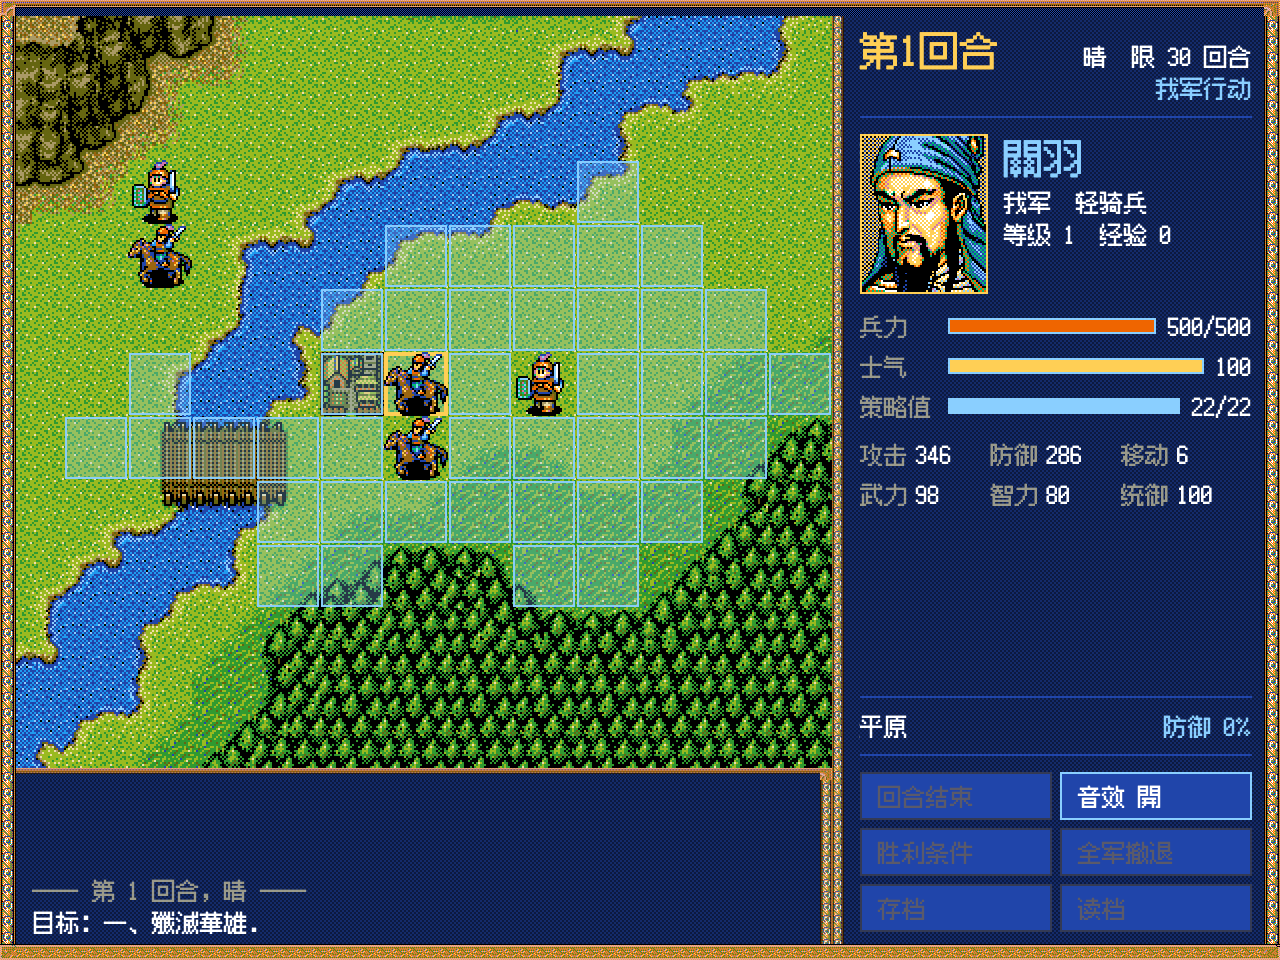
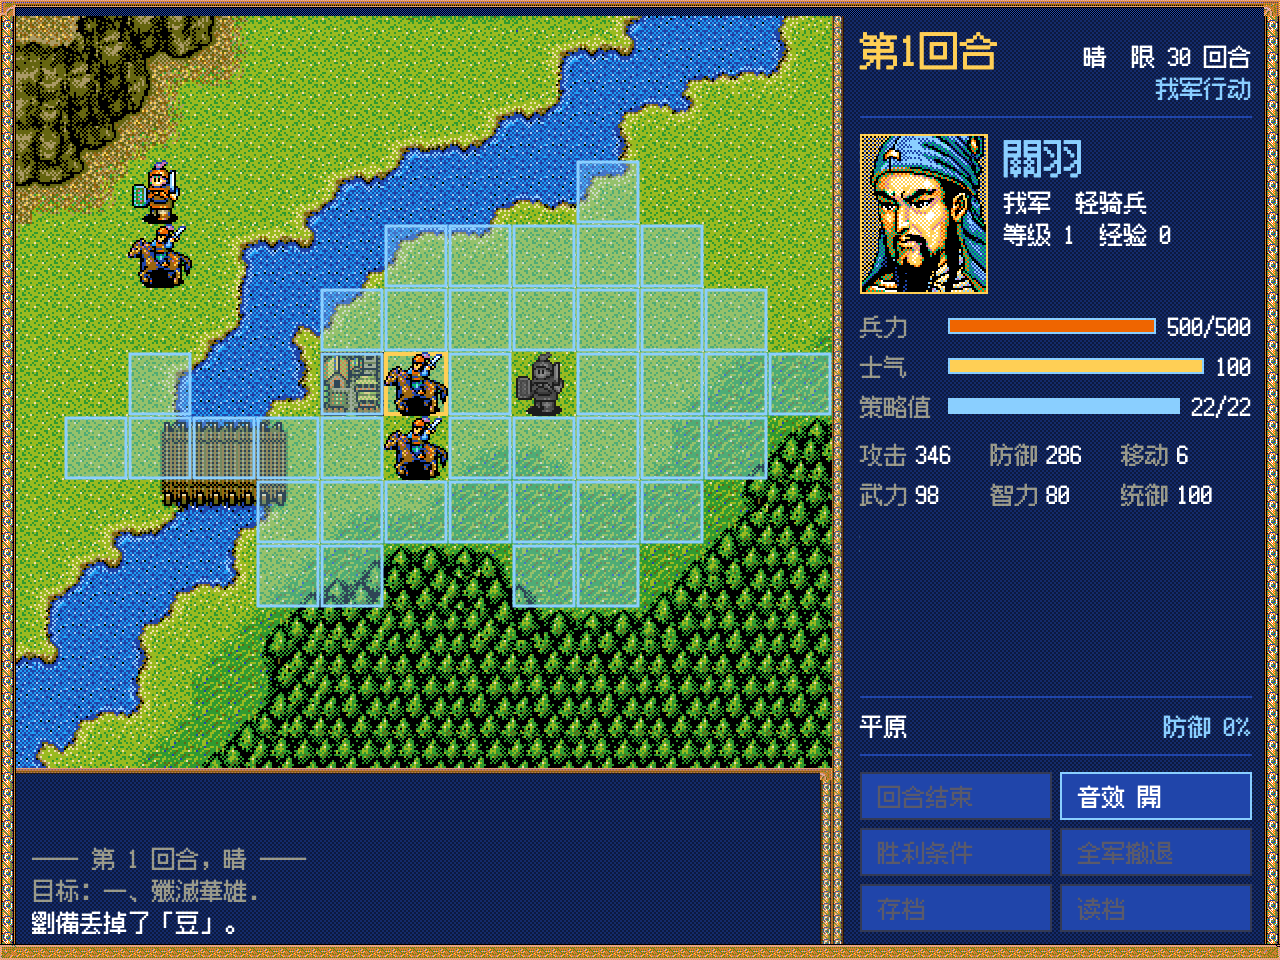
feat: 战斗中的道具「给予 / 丢弃」
- 点道具弹出「使用 / 给予 / 丢弃」子菜单，装备类也能交给友军
- 给予对象是身边一圈（含斜角）的友军，接收方最多 8 件（原版存档的槽数）
- 三项都算一次行动；新增 give / drop 事件、日志、音效与飘字
- 可选目标的高亮改成青绿加粗，在绿地上也看得清
- 新增 3 项单测（转移、范围与满栏拒绝、丢弃）与 1 项 e2e，共 121 项 / 16 项

diff --git a/src/main.ts b/src/main.ts
@@ -8,7 +8,7 @@ import { PROMOTE, classUse, isEquipment, itemEffect, priceOf, specOf } from './d
 import { strategyName, strategySpec } from './data/strategies';
 import { TB, atk, attackTargets, bySlot, def, itemName, knownStrategies, maxHp, maxMp, moveBudget, terrainAt, terrainDef, unitAt, weatherName } from './rules/core';
 import { canStop, reachField } from './rules/move';
-import { aiStep, autoPhase, canCommand, castTargets, doAttack, doCast, doCastAll, doItem, doItemAll, doMove, doWait, endPhase, harvest, itemTargets, levelById, levelOf, newBattle, registerLevel, undoMove } from './rules/turn';
+import { aiStep, autoPhase, canCommand, castTargets, doAttack, doCast, doCastAll, doDrop, doGive, doItem, doItemAll, doMove, doWait, endPhase, giveTargets, harvest, itemTargets, levelById, levelOf, newBattle, registerLevel, undoMove } from './rules/turn';
 import type { Battle, Ev, Flag, Unit } from './rules/types';
 import { BattleScene, CELL, RES, VIEW_H, VIEW_W, sideOf } from './scene';
 import { checkScript, currentStep, nextStep, startStory, testFlag, type Shown, type Story, type StoryApi, type Step } from './story';
@@ -161,6 +161,8 @@ function describe(ev: Ev): string {
     case 'spawn': return '敌军增援赶到！';
     case 'objective': return `胜利条件：${ev.text}`;
     case 'gain': return `${name(ev.slot)}${ev.text}`;
+    case 'give': return `${name(ev.a)}把「${itemName(ev.item)}」交给${name(ev.d)}。`;
+    case 'drop': return `${name(ev.slot)}丢掉了「${itemName(ev.item)}」。`;
     case 'end': return ev.text;
     default: return '';
   }
@@ -661,14 +663,9 @@ function openCommand() {
       : () => aim(ts, spec?.target === 'ally' ? 'aid' : 'attack', (t) => doCast(b, u.slot, id, t.slot));
     return [{ label: `${strategyName(id)}　${spec?.mp ?? 0}`, on: run }];
   });
-  const bag = u.items.filter((id) => specOf(id)?.battle).flatMap((id) => {
-    const ts = itemTargets(b, u, id);
-    if (!ts.length) return [];
-    const st = strategySpec(specOf(id)!.strategyId ?? -1);
-    const run = st?.area === 'all_in_range'
-      ? () => act(doItemAll(b, u.slot, id))
-      : () => aim(ts, st?.target === 'ally' ? 'aid' : 'attack', (t) => doItem(b, u.slot, id, t.slot));
-    return [{ label: st ? `${itemName(id)}・${st.name}` : itemName(id), on: run }];
+  const bag = u.items.map((id) => {
+    const st = strategySpec(specOf(id)?.strategyId ?? -1);
+    return { label: st ? `${itemName(id)}・${st.name}` : itemName(id), on: () => openItemMenu(u, id) };
   });
   openMenu([
     { label: '攻击', on: foes.length ? () => aim(foes, 'attack', (t) => doAttack(b, u.slot, t.slot)) : undefined },
@@ -677,12 +674,29 @@ function openCommand() {
     { label: '待命', on: () => act(doWait(b, u.slot)) },
   ], u);
 }
-function aim(targets: Unit[], kind: 'attack' | 'aid', run: (t: Unit) => Ev[]) {
+
+/** 一件道具的子菜单：使用 / 给予 / 丢弃。原版的道具指令也是这三项（让渡即给予）。
+ * 装备类道具不能「使用」，但可以交给身边的友军或扔掉。 */
+function openItemMenu(u: Unit, id: number) {
+  const it = specOf(id);
+  const ts = itemTargets(b, u, id);
+  const st = it?.strategyId != null ? strategySpec(it.strategyId) : undefined;
+  const use = !it?.battle || !ts.length ? undefined
+    : st?.area === 'all_in_range' ? () => act(doItemAll(b, u.slot, id))
+    : () => aim(ts, st?.target === 'ally' ? 'aid' : 'attack', (t) => doItem(b, u.slot, id, t.slot));
+  const mates = giveTargets(b, u, id);
+  openMenu([
+    { label: '使用', on: use },
+    { label: '给予', on: mates.length ? () => aim(mates, 'aid', (t) => doGive(b, u.slot, id, t.slot), '选择给予对象。') : undefined },
+    { label: '丢弃', on: () => act(doDrop(b, u.slot, id)) },
+  ], u);
+}
+function aim(targets: Unit[], kind: 'attack' | 'aid', run: (t: Unit) => Ev[], hint?: string) {
   mode = 'target';
   pick = { targets, run };
   closeMenu();
   scene.mark(cellsOf(targets), kind);
-  log(kind === 'aid' ? '选择使用对象。' : '选择目标。');
+  log(hint ?? (kind === 'aid' ? '选择使用对象。' : '选择目标。'));
 }
 
 async function act(evs: Ev[]) {

diff --git a/tests/items.test.ts b/tests/items.test.ts
@@ -2,7 +2,7 @@ import { describe, expect, it } from 'vitest';
 import { ITEM_SPEC, PROMOTE, classChange, classUse, itemEffect, priceOf, promotion, specOf } from '../src/data/items';
 import { upkeep } from '../src/rules/combat';
 import { atk, bySlot, def, maxHp, moveBudget } from '../src/rules/core';
-import { doItem, itemTargets, newBattle, type Level, type UnitInit } from '../src/rules/turn';
+import { doDrop, doGive, doItem, giveTargets, itemTargets, newBattle, type Level, type UnitInit } from '../src/rules/turn';
 import type { Battle } from '../src/rules/types';
 
 /** 道具表来自原版的 items.toml：价格、回复量、装备加成、转职条件都得对得上。 */
@@ -150,5 +150,39 @@ describe('兵种转职', () => {
     expect(classChange(16)).toBe(3);
     expect(classChange(30)).toBeNull();
     expect(classUse(9, 20, 2)).toBe(12);
+  });
+});
+
+describe('给予与丢弃（原版道具指令的另外两项）', () => {
+  it('给予：把豆交给相邻的友军，两边道具栏同步变化，并消耗这次行动', () => {
+    const b = start([unit(0, 0, 5, 1, 0, { items: [30] }), unit(1, 0, 5, 2, 0), unit(2, 0, 5, 4, 0), unit(15, 0, 1, 5, 0)]);
+    const u = bySlot(b, 0)!;
+    expect(giveTargets(b, u, 30).map((d) => d.slot)).toEqual([1]);
+    const evs = doGive(b, 0, 30, 1);
+    expect(u.items).toEqual([]);
+    expect(bySlot(b, 1)!.items).toEqual([30]);
+    expect(evs[0]).toEqual({ t: 'give', a: 0, d: 1, item: 30 });
+    expect(u.acted).toBe(true);
+  });
+
+  it('隔一格、道具栏已满、敌军都不能给', () => {
+    const b = start([
+      unit(0, 0, 5, 1, 0, { items: [30] }),
+      unit(1, 0, 5, 3, 0), // 隔一格
+      unit(2, 0, 5, 2, 0, { items: [30, 30, 30, 30, 30, 30, 30, 30] }), // 满 8 件
+      unit(15, 0, 1, 0, 0), // 相邻但是敌军
+    ]);
+    const u = bySlot(b, 0)!;
+    expect(giveTargets(b, u, 30)).toEqual([]);
+    expect(() => doGive(b, 0, 30, 1)).toThrow();
+  });
+
+  it('丢弃：道具离身，同样消耗这次行动', () => {
+    const b = start([unit(0, 0, 5, 2, 0, { items: [30, 31] }), unit(15, 0, 1, 5, 0)]);
+    const u = bySlot(b, 0)!;
+    const evs = doDrop(b, 0, 30);
+    expect(u.items).toEqual([31]);
+    expect(evs[0]).toEqual({ t: 'drop', slot: 0, item: 30 });
+    expect(u.acted).toBe(true);
   });
 });

diff --git a/src/scene.ts b/src/scene.ts
@@ -275,13 +275,13 @@ export class BattleScene extends Phaser.Scene {
     this.onHover(x, y);
   }
 
-  /** 高亮一批格子：移动范围用原版亮蓝，攻击/策略范围用橙，道具对象用绿。直角方框，和原版光标一致。 */
+  /** 高亮一批格子：移动范围用原版亮蓝，攻击/策略范围用橙，道具对象用青绿（绿地上也看得清）。直角方框，和原版光标一致。 */
   mark(cells: [number, number][], kind: 'move' | 'attack' | 'aid') {
-    const color = { move: 0x8acfff, attack: CINNABAR, aid: GREEN }[kind];
+    const color = { move: 0x8acfff, attack: CINNABAR, aid: 0x3cf0b0 }[kind];
     this.marks.clear();
     for (const [x, y] of cells) {
-      this.marks.fillStyle(color, 0.28).fillRect(x * CELL + 2, y * CELL + 2, CELL - 4, CELL - 4);
-      this.marks.lineStyle(4, color, 0.95).strokeRect(x * CELL + 3, y * CELL + 3, CELL - 6, CELL - 6);
+      this.marks.fillStyle(color, 0.34).fillRect(x * CELL + 2, y * CELL + 2, CELL - 4, CELL - 4);
+      this.marks.lineStyle(5, color, 1).strokeRect(x * CELL + 3, y * CELL + 3, CELL - 6, CELL - 6);
     }
   }
   unmark() {
@@ -530,6 +530,12 @@ export class BattleScene extends Phaser.Scene {
         break;
       case 'gain':
         await this.float(unit(ev.slot), '获得', '#ffcf55');
+        break;
+      case 'give':
+        await this.float(unit(ev.d), '授予', '#ffcf55');
+        break;
+      case 'drop':
+        await this.float(unit(ev.slot), '舍弃', '#8acfff');
         break;
       case 'hp': {
         this.hp.set(ev.slot, Math.max(0, this.hpOf(ev.slot) + ev.delta));

diff --git a/src/rules/turn.ts b/src/rules/turn.ts
@@ -637,6 +637,34 @@ export function doItemAll(b: Battle, slot: number, id: number): Ev[] {
   return done(b, u, evs);
 }
 
+/** 一支部队最多带 8 件道具：原版存档记录里道具就是 8 个槽。 */
+export const MAX_ITEMS = 8;
+
+/** 给予的对象：身边一圈（含斜角）的友军，且道具栏没满。 */
+export function giveTargets(b: Battle, u: Unit, id: number): Unit[] {
+  if (!u.items.includes(id)) return [];
+  return b.units.filter((d) => d.on && d.slot !== u.slot && !foes(u, d) &&
+    Math.max(Math.abs(d.x - u.x), Math.abs(d.y - u.y)) === 1 && d.items.length < MAX_ITEMS);
+}
+
+/** 给予：把一件道具交给身边的友军。和「使用」一样算一次行动。 */
+export function doGive(b: Battle, slot: number, id: number, target: number): Ev[] {
+  const u = manual(b, slot);
+  const d = bySlot(b, target);
+  need(d && giveTargets(b, u, id).includes(d), '不能把道具交给这支部队');
+  u.items.splice(u.items.indexOf(id), 1);
+  d!.items.push(id);
+  return done(b, u, [{ t: 'give', a: u.slot, d: d!.slot, item: id }]);
+}
+
+/** 丢弃：把一件道具扔掉。也算一次行动，腾出道具栏。 */
+export function doDrop(b: Battle, slot: number, id: number): Ev[] {
+  const u = manual(b, slot);
+  need(u.items.includes(id), '没有这件道具');
+  u.items.splice(u.items.indexOf(id), 1);
+  return done(b, u, [{ t: 'drop', slot: u.slot, item: id }]);
+}
+
 /** 结束我军阶段，进入友军行动。 */
 export function endPhase(b: Battle): Ev[] {
   need(b.stage === 'player', '现在不是我军阶段');

diff --git a/src/rules/types.ts b/src/rules/types.ts
@@ -78,5 +78,8 @@ export type Ev =
   | { t: 'drama'; scene: string }
   | { t: 'duel'; a: number; d: number }
   | { t: 'gain'; slot: number; text: string }
+  /** 把道具交给身边的友军 / 扔掉。 */
+  | { t: 'give'; a: number; d: number; item: number }
+  | { t: 'drop'; slot: number; item: number }
   | { t: 'talk'; who: string; text: string }
   | { t: 'end'; won: boolean; text: string };

diff --git a/src/sfx-map.ts b/src/sfx-map.ts
@@ -40,6 +40,8 @@ export function sfxOf(ev: Ev, b: Battle): SfxKey | null {
     case 'retreat': return 'retreat';
     case 'terrain': return 'rock';
     case 'gain': return 'treasure';
+    case 'give': return 'treasure';
+    case 'drop': return 'cancel';
     case 'duel': return 'hit_heavy';
     case 'end': return ev.won ? 'victory' : 'defeat';
     default: return null;

diff --git a/docs/rules.md b/docs/rules.md
@@ -9,7 +9,7 @@
 
 | | 状态 | 依据 |
 |---|---|---|
-| A. 能否完整游玩整部游戏 | **通过** | 自动化测试 118 项（含整部剧本数据走查：70 关都能开打、120 遍随机流程不卡死；道具表价格/装备/转职；策略回复/士气/混乱时限/群体与 AI 补给）、浏览器实操 15 项（标题→序章→营地→战场→单挑斩华雄→战后剧情→下一关→读存档→败北重开→策略菜单）、生产构建冒烟，全部通过。见 §5 |
+| A. 能否完整游玩整部游戏 | **通过** | 自动化测试 121 项（含整部剧本数据走查：70 关都能开打、120 遍随机流程不卡死；道具表价格/装备/转职/给予丢弃；策略回复/士气/混乱时限/群体与 AI 补给）、浏览器实操 16 项（标题→序章→营地→战场→道具指令→单挑斩华雄→战后剧情→下一关→读存档→败北重开→策略菜单）、生产构建冒烟，全部通过。见 §5 |
 | B. 已实现规则是否由证据验证与原版一致 | **大部分通过，未到全部** | 关卡数据和数值表直接读自原版文件；伤害、移动、士气、经验、反击、恢复、天气、随机数、AI 评分等函数已在原版 `MAIN.EXE` 里反汇编逐条核对。仍未亲自核对的：AI 的指令调度流程、回合内的先后次序、路径回溯、策略命中与回复公式（后者取自攻略站的实测数据）；并且**没有运行过原版做实机观察**。见 §4 |
 
 ## 0. 基准
@@ -106,7 +106,7 @@
 
 范围上的：
 
-5. 道具指令只做了「使用」和营地的「转职」，没有给予、丢弃、查看。
+5. 道具指令有「使用 / 给予 / 丢弃」，营地里能转职；没有单独的「查看」页。
 6. 策略演出按八个家族分（火 / 水 / 石 / 扰心 / 振气 / 丧气 / 回复 / 爆彈），不是原版逐条策略的专属动画。
 7. 系统菜单只有回合结束、胜利条件、全军撤退、存档、读档。
 8. 友军按原版名单固定出场，没有战前对话的选择。营地的商店、编成、道具、转职与存档已做（见 `docs/framework.md` §4–5），布阵也能自己摆（§9），但只能摆在关卡数据给的出兵位上。
